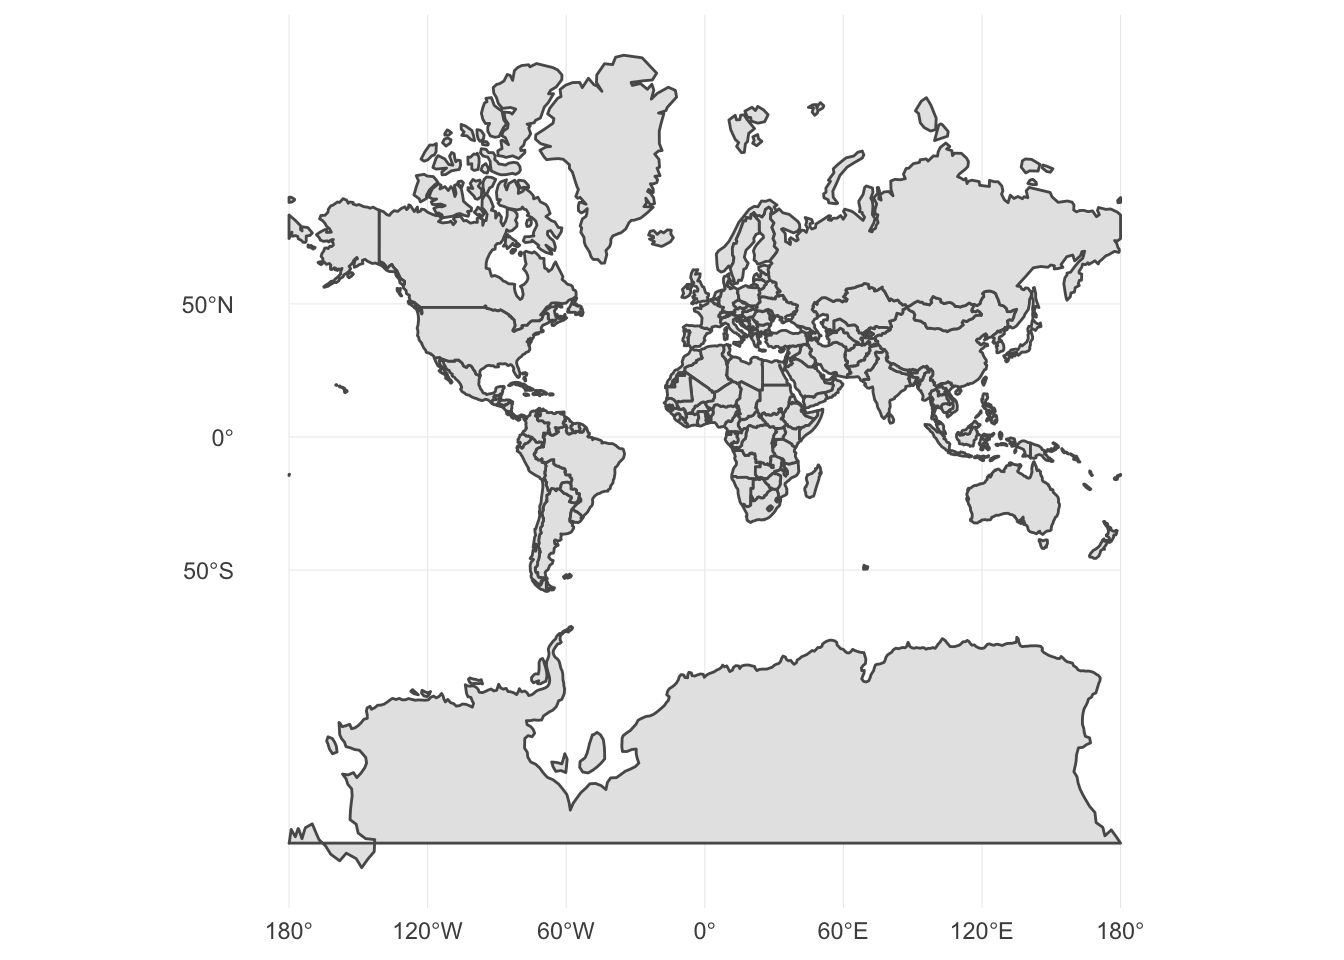
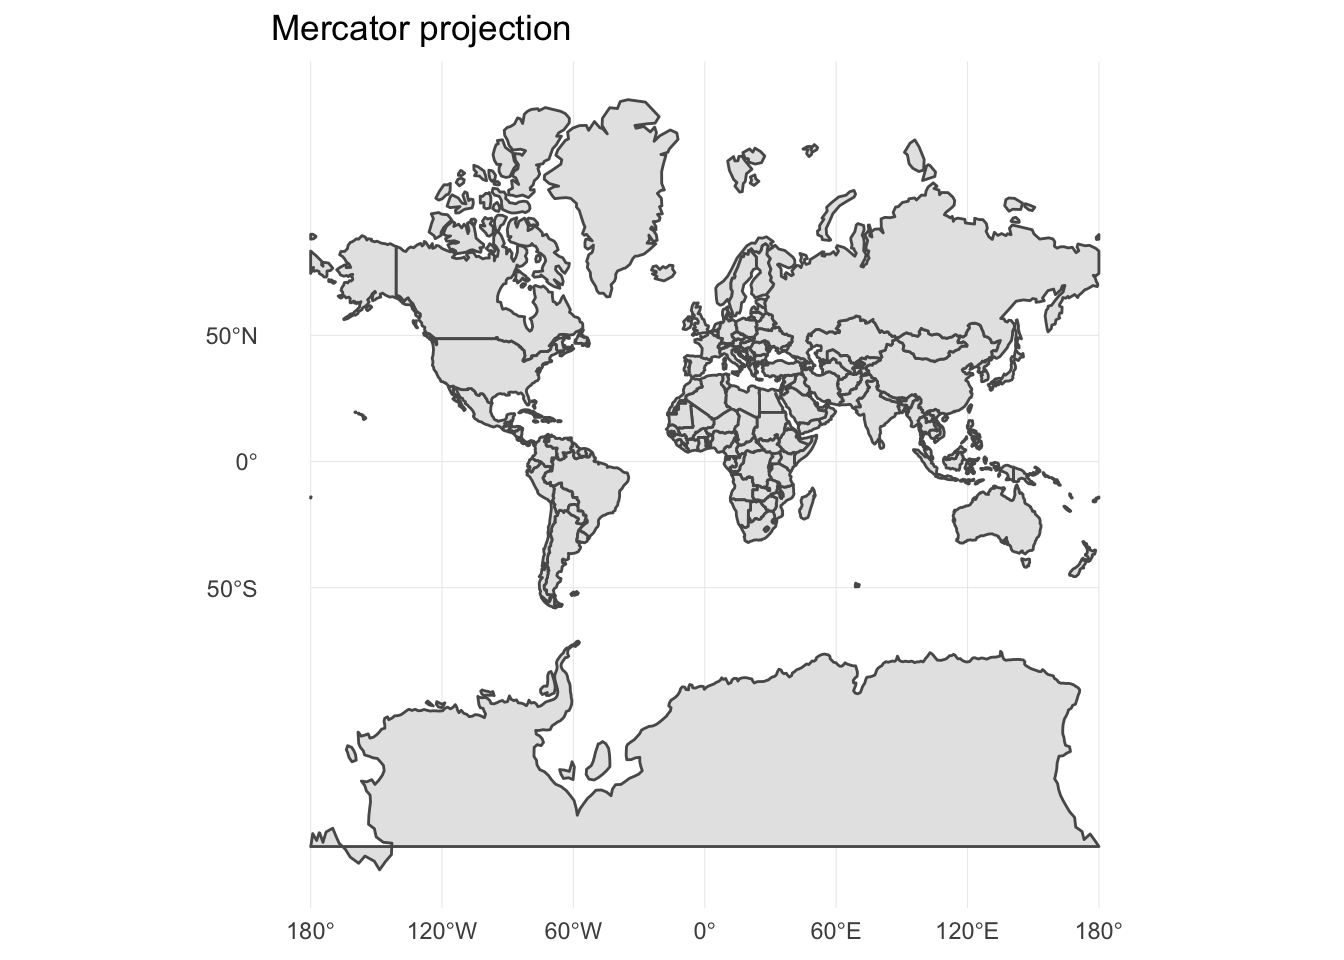
Define scale and projection

diff --git a/geoviz_intro.html b/geoviz_intro.html
@@ -333,6 +333,11 @@ div.tocify {
 <p>Geometric visualizations are used to depict spatial features, and with the incorporation of data reveal additional attributes and information. The main features of a map are defined by its <strong>scale</strong> (the proportion between distances and sizes on the map), its <strong>projection</strong> (how the three-dimensional Earth is represented on a two-dimensional surface), and its <strong>symbols</strong> (how data is depicted and visualized on the map).</p>
 <div id="scale" class="section level2">
 <h2>Scale</h2>
+<p><strong>Scale</strong> defines the proportion between distances and sizes on a map and their actual distances and sizes on Earth. Depending on the total geographic area for which you have data to visualize, you could create a <strong>small-scale map</strong> or a <strong>large-scale map</strong>. So for instance, a map of the United States would be considered large-scale:</p>
+<p><img src="geoviz_intro_files/figure-html/large-scale-1.png" width="672" /></p>
+<p>Whereas a map of Hyde Park would be small-scale:</p>
+<p><img src="geoviz_intro_files/figure-html/small-scale-1.png" width="672" /></p>
+<p>The smaller the scale, the easier it is to include additional details in the map.</p>
 </div>
 <div id="projection" class="section level2">
 <h2>Projection</h2>
@@ -344,31 +349,13 @@ div.tocify {
 <li>Distance</li>
 <li>Direction</li>
 </ol>
-<p>Projection methods typically maximize the accuracy of one or two of these properties, but no more. For instance, the <strong>mercator</strong> projection preserves shape and area and is very useful for sea navigation, but distorts the area of landmasses.</p>
-<pre><code>## Reading layer `ne_110m_admin_0_countries&#39; from data source `/Users/soltoffbc/Projects/Computing for Social Sciences/uc-cfss.github.io/data/nautral_earth/ne_110m_admin_0_countries/ne_110m_admin_0_countries.shp&#39; using driver `ESRI Shapefile&#39;
-## Simple feature collection with 177 features and 63 fields
-## geometry type:  MULTIPOLYGON
-## dimension:      XY
-## bbox:           xmin: -180 ymin: -90 xmax: 180 ymax: 83.6
-## epsg (SRID):    4326
-## proj4string:    +proj=longlat +datum=WGS84 +no_defs</code></pre>
+<p>Projection methods typically maximize the accuracy of one or two of these properties, but no more. For instance, <strong>conformal projections</strong> such as the <strong>mercator</strong> projection preserves shape and local angles and is very useful for sea navigation, but distorts the area of landmasses.</p>
 <p><img src="geoviz_intro_files/figure-html/mercator-1.png" width="672" /></p>
-<pre><code>## Reading layer `ne_110m_admin_0_countries&#39; from data source `/Users/soltoffbc/Projects/Computing for Social Sciences/uc-cfss.github.io/data/nautral_earth/ne_110m_admin_0_countries/ne_110m_admin_0_countries.shp&#39; using driver `ESRI Shapefile&#39;
-## Simple feature collection with 177 features and 63 fields
-## geometry type:  MULTIPOLYGON
-## dimension:      XY
-## bbox:           xmin: -180 ymin: -90 xmax: 180 ymax: 83.6
-## epsg (SRID):    4326
-## proj4string:    +proj=longlat +datum=WGS84 +no_defs</code></pre>
-<p><img src="geoviz_intro_files/figure-html/mercator-2.png" width="672" /></p>
-<pre><code>## Reading layer `ne_110m_admin_0_countries&#39; from data source `/Users/soltoffbc/Projects/Computing for Social Sciences/uc-cfss.github.io/data/nautral_earth/ne_110m_admin_0_countries/ne_110m_admin_0_countries.shp&#39; using driver `ESRI Shapefile&#39;
-## Simple feature collection with 177 features and 63 fields
-## geometry type:  MULTIPOLYGON
-## dimension:      XY
-## bbox:           xmin: -180 ymin: -90 xmax: 180 ymax: 83.6
-## epsg (SRID):    4326
-## proj4string:    +proj=longlat +datum=WGS84 +no_defs</code></pre>
-<p><img src="geoviz_intro_files/figure-html/mercator-3.png" width="672" /></p>
+<p>The farther away from the equator one travels, the more distorted the size of the region.</p>
+<p>Another family of projections called <strong>equal-area projections</strong> preserves area ratios, so that the relative size of areas on a map are proportional to their areas on the Earth.</p>
+<p><img src="geoviz_intro_files/figure-html/equal-area-1.png" width="672" /><img src="geoviz_intro_files/figure-html/equal-area-2.png" width="672" /></p>
+<p>The downside is that equal-area projections tend to distory shapes heavily, so shapes of areas can become distorted. No method can be both conformal and equal-area simultaneously, but some methods such as the <strong>Mollweide</strong> projection achieve a trade-off between these sets of characteristics.</p>
+<p><img src="geoviz_intro_files/figure-html/mollweide-1.png" width="672" /></p>
 </div>
 <div id="symbols" class="section level2">
 <h2>Symbols</h2>
@@ -390,87 +377,98 @@ div.tocify {
 ##  language (EN)                        
 ##  collate  en_US.UTF-8                 
 ##  tz       America/Chicago             
-##  date     2018-06-21                  
+##  date     2018-06-28                  
 ## 
-##  package    * version    date       source                         
-##  assertthat   0.2.0      2017-04-11 CRAN (R 3.5.0)                 
-##  backports    1.1.2      2017-12-13 CRAN (R 3.5.0)                 
-##  base       * 3.5.0      2018-04-24 local                          
-##  bindr        0.1.1      2018-03-13 CRAN (R 3.5.0)                 
-##  bindrcpp     0.2.2      2018-03-29 CRAN (R 3.5.0)                 
-##  broom        0.4.4      2018-03-29 CRAN (R 3.5.0)                 
-##  cellranger   1.1.0      2016-07-27 CRAN (R 3.5.0)                 
-##  class        7.3-14     2015-08-30 CRAN (R 3.5.0)                 
-##  classInt     0.2-3      2018-04-16 CRAN (R 3.5.0)                 
-##  cli          1.0.0      2017-11-05 CRAN (R 3.5.0)                 
-##  codetools    0.2-15     2016-10-05 CRAN (R 3.5.0)                 
-##  colorspace   1.3-2      2016-12-14 CRAN (R 3.5.0)                 
-##  compiler     3.5.0      2018-04-24 local                          
-##  crayon       1.3.4      2017-09-16 CRAN (R 3.5.0)                 
-##  datasets   * 3.5.0      2018-04-24 local                          
-##  DBI          1.0.0      2018-05-02 CRAN (R 3.5.0)                 
-##  devtools     1.13.5     2018-02-18 CRAN (R 3.5.0)                 
-##  digest       0.6.15     2018-01-28 CRAN (R 3.5.0)                 
-##  dplyr      * 0.7.5      2018-05-19 CRAN (R 3.5.0)                 
-##  e1071        1.6-8      2017-02-02 CRAN (R 3.5.0)                 
-##  evaluate     0.10.1     2017-06-24 CRAN (R 3.5.0)                 
-##  forcats    * 0.3.0      2018-02-19 CRAN (R 3.5.0)                 
-##  foreign      0.8-70     2017-11-28 CRAN (R 3.5.0)                 
-##  ggplot2    * 2.2.1.9000 2018-06-07 Github (hadley/ggplot2@4db5122)
-##  glue         1.2.0      2017-10-29 CRAN (R 3.5.0)                 
-##  graphics   * 3.5.0      2018-04-24 local                          
-##  grDevices  * 3.5.0      2018-04-24 local                          
-##  grid         3.5.0      2018-04-24 local                          
-##  gtable       0.2.0      2016-02-26 CRAN (R 3.5.0)                 
-##  haven        1.1.1      2018-01-18 CRAN (R 3.5.0)                 
-##  hms          0.4.2      2018-03-10 CRAN (R 3.5.0)                 
-##  htmltools    0.3.6      2017-04-28 CRAN (R 3.5.0)                 
-##  httr         1.3.1      2017-08-20 CRAN (R 3.5.0)                 
-##  jsonlite     1.5        2017-06-01 CRAN (R 3.5.0)                 
-##  knitr        1.20       2018-02-20 CRAN (R 3.5.0)                 
-##  lattice      0.20-35    2017-03-25 CRAN (R 3.5.0)                 
-##  lazyeval     0.2.1      2017-10-29 CRAN (R 3.5.0)                 
-##  lubridate    1.7.4      2018-04-11 CRAN (R 3.5.0)                 
-##  magrittr     1.5        2014-11-22 CRAN (R 3.5.0)                 
-##  memoise      1.1.0      2017-04-21 CRAN (R 3.5.0)                 
-##  methods    * 3.5.0      2018-04-24 local                          
-##  mnormt       1.5-5      2016-10-15 CRAN (R 3.5.0)                 
-##  modelr       0.1.2      2018-05-11 CRAN (R 3.5.0)                 
-##  munsell      0.4.3      2016-02-13 CRAN (R 3.5.0)                 
-##  nlme         3.1-137    2018-04-07 CRAN (R 3.5.0)                 
-##  parallel     3.5.0      2018-04-24 local                          
-##  pillar       1.2.3      2018-05-25 CRAN (R 3.5.0)                 
-##  pkgconfig    2.0.1      2017-03-21 CRAN (R 3.5.0)                 
-##  plyr         1.8.4      2016-06-08 CRAN (R 3.5.0)                 
-##  psych        1.8.4      2018-05-06 CRAN (R 3.5.0)                 
-##  purrr      * 0.2.5      2018-05-29 CRAN (R 3.5.0)                 
-##  R6           2.2.2      2017-06-17 CRAN (R 3.5.0)                 
-##  Rcpp         0.12.17    2018-05-18 CRAN (R 3.5.0)                 
-##  readr      * 1.1.1      2017-05-16 CRAN (R 3.5.0)                 
-##  readxl       1.1.0      2018-04-20 CRAN (R 3.5.0)                 
-##  reshape2     1.4.3      2017-12-11 CRAN (R 3.5.0)                 
-##  rlang        0.2.1      2018-05-30 CRAN (R 3.5.0)                 
-##  rmarkdown    1.9        2018-03-01 CRAN (R 3.5.0)                 
-##  rprojroot    1.3-2      2018-01-03 CRAN (R 3.5.0)                 
-##  rstudioapi   0.7        2017-09-07 CRAN (R 3.5.0)                 
-##  rvest        0.3.2      2016-06-17 CRAN (R 3.5.0)                 
-##  scales       0.5.0      2017-08-24 CRAN (R 3.5.0)                 
-##  sf         * 0.6-3      2018-05-17 CRAN (R 3.5.0)                 
-##  spData       0.2.8.3    2018-03-25 CRAN (R 3.5.0)                 
-##  stats      * 3.5.0      2018-04-24 local                          
-##  stringi      1.2.2      2018-05-02 CRAN (R 3.5.0)                 
-##  stringr    * 1.3.1      2018-05-10 CRAN (R 3.5.0)                 
-##  tibble     * 1.4.2      2018-01-22 CRAN (R 3.5.0)                 
-##  tidyr      * 0.8.1      2018-05-18 CRAN (R 3.5.0)                 
-##  tidyselect   0.2.4      2018-02-26 CRAN (R 3.5.0)                 
-##  tidyverse  * 1.2.1      2017-11-14 CRAN (R 3.5.0)                 
-##  tools        3.5.0      2018-04-24 local                          
-##  udunits2     0.13       2016-11-17 CRAN (R 3.5.0)                 
-##  units        0.5-1      2018-01-08 CRAN (R 3.5.0)                 
-##  utils      * 3.5.0      2018-04-24 local                          
-##  withr        2.1.2      2018-03-15 CRAN (R 3.5.0)                 
-##  xml2         1.2.0      2018-01-24 CRAN (R 3.5.0)                 
-##  yaml         2.1.19     2018-05-01 CRAN (R 3.5.0)</code></pre>
+##  package     * version    date       source                         
+##  assertthat    0.2.0      2017-04-11 CRAN (R 3.5.0)                 
+##  backports     1.1.2      2017-12-13 CRAN (R 3.5.0)                 
+##  base        * 3.5.0      2018-04-24 local                          
+##  bindr         0.1.1      2018-03-13 CRAN (R 3.5.0)                 
+##  bindrcpp      0.2.2      2018-03-29 CRAN (R 3.5.0)                 
+##  broom         0.4.4      2018-03-29 CRAN (R 3.5.0)                 
+##  cellranger    1.1.0      2016-07-27 CRAN (R 3.5.0)                 
+##  class         7.3-14     2015-08-30 CRAN (R 3.5.0)                 
+##  classInt      0.2-3      2018-04-16 CRAN (R 3.5.0)                 
+##  cli           1.0.0      2017-11-05 CRAN (R 3.5.0)                 
+##  codetools     0.2-15     2016-10-05 CRAN (R 3.5.0)                 
+##  colorspace    1.3-2      2016-12-14 CRAN (R 3.5.0)                 
+##  compiler      3.5.0      2018-04-24 local                          
+##  crayon        1.3.4      2017-09-16 CRAN (R 3.5.0)                 
+##  datasets    * 3.5.0      2018-04-24 local                          
+##  DBI           1.0.0      2018-05-02 CRAN (R 3.5.0)                 
+##  devtools      1.13.5     2018-02-18 CRAN (R 3.5.0)                 
+##  digest        0.6.15     2018-01-28 CRAN (R 3.5.0)                 
+##  dplyr       * 0.7.5      2018-05-19 CRAN (R 3.5.0)                 
+##  e1071         1.6-8      2017-02-02 CRAN (R 3.5.0)                 
+##  evaluate      0.10.1     2017-06-24 CRAN (R 3.5.0)                 
+##  forcats     * 0.3.0      2018-02-19 CRAN (R 3.5.0)                 
+##  foreign       0.8-70     2017-11-28 CRAN (R 3.5.0)                 
+##  geosphere     1.5-7      2017-11-05 CRAN (R 3.5.0)                 
+##  ggmap       * 2.6.1      2016-01-23 CRAN (R 3.5.0)                 
+##  ggplot2     * 2.2.1.9000 2018-06-07 Github (hadley/ggplot2@4db5122)
+##  glue          1.2.0      2017-10-29 CRAN (R 3.5.0)                 
+##  graphics    * 3.5.0      2018-04-24 local                          
+##  grDevices   * 3.5.0      2018-04-24 local                          
+##  grid          3.5.0      2018-04-24 local                          
+##  gtable        0.2.0      2016-02-26 CRAN (R 3.5.0)                 
+##  haven         1.1.1      2018-01-18 CRAN (R 3.5.0)                 
+##  hms           0.4.2      2018-03-10 CRAN (R 3.5.0)                 
+##  htmltools     0.3.6      2017-04-28 CRAN (R 3.5.0)                 
+##  httr          1.3.1      2017-08-20 CRAN (R 3.5.0)                 
+##  jpeg          0.1-8      2014-01-23 CRAN (R 3.5.0)                 
+##  jsonlite      1.5        2017-06-01 CRAN (R 3.5.0)                 
+##  knitr         1.20       2018-02-20 CRAN (R 3.5.0)                 
+##  labeling      0.3        2014-08-23 CRAN (R 3.5.0)                 
+##  lattice       0.20-35    2017-03-25 CRAN (R 3.5.0)                 
+##  lazyeval      0.2.1      2017-10-29 CRAN (R 3.5.0)                 
+##  lubridate     1.7.4      2018-04-11 CRAN (R 3.5.0)                 
+##  magrittr      1.5        2014-11-22 CRAN (R 3.5.0)                 
+##  mapproj       1.2.6      2018-03-29 CRAN (R 3.5.0)                 
+##  maps          3.3.0      2018-04-03 CRAN (R 3.5.0)                 
+##  memoise       1.1.0      2017-04-21 CRAN (R 3.5.0)                 
+##  methods     * 3.5.0      2018-04-24 local                          
+##  mnormt        1.5-5      2016-10-15 CRAN (R 3.5.0)                 
+##  modelr        0.1.2      2018-05-11 CRAN (R 3.5.0)                 
+##  munsell       0.4.3      2016-02-13 CRAN (R 3.5.0)                 
+##  nlme          3.1-137    2018-04-07 CRAN (R 3.5.0)                 
+##  parallel      3.5.0      2018-04-24 local                          
+##  pillar        1.2.3      2018-05-25 CRAN (R 3.5.0)                 
+##  pkgconfig     2.0.1      2017-03-21 CRAN (R 3.5.0)                 
+##  plyr          1.8.4      2016-06-08 CRAN (R 3.5.0)                 
+##  png           0.1-7      2013-12-03 CRAN (R 3.5.0)                 
+##  proto         1.0.0      2016-10-29 CRAN (R 3.5.0)                 
+##  psych         1.8.4      2018-05-06 CRAN (R 3.5.0)                 
+##  purrr       * 0.2.5      2018-05-29 CRAN (R 3.5.0)                 
+##  R6            2.2.2      2017-06-17 CRAN (R 3.5.0)                 
+##  Rcpp          0.12.17    2018-05-18 CRAN (R 3.5.0)                 
+##  readr       * 1.1.1      2017-05-16 CRAN (R 3.5.0)                 
+##  readxl        1.1.0      2018-04-20 CRAN (R 3.5.0)                 
+##  reshape2      1.4.3      2017-12-11 CRAN (R 3.5.0)                 
+##  RgoogleMaps   1.4.1      2016-09-18 CRAN (R 3.5.0)                 
+##  rjson         0.2.19     2018-05-18 CRAN (R 3.5.0)                 
+##  rlang         0.2.1      2018-05-30 CRAN (R 3.5.0)                 
+##  rmarkdown     1.9        2018-03-01 CRAN (R 3.5.0)                 
+##  rprojroot     1.3-2      2018-01-03 CRAN (R 3.5.0)                 
+##  rstudioapi    0.7        2017-09-07 CRAN (R 3.5.0)                 
+##  rvest         0.3.2      2016-06-17 CRAN (R 3.5.0)                 
+##  scales        0.5.0      2017-08-24 CRAN (R 3.5.0)                 
+##  sf          * 0.6-3      2018-05-17 CRAN (R 3.5.0)                 
+##  sp            1.3-1      2018-06-05 CRAN (R 3.5.0)                 
+##  spData        0.2.8.3    2018-03-25 CRAN (R 3.5.0)                 
+##  stats       * 3.5.0      2018-04-24 local                          
+##  stringi       1.2.2      2018-05-02 CRAN (R 3.5.0)                 
+##  stringr     * 1.3.1      2018-05-10 CRAN (R 3.5.0)                 
+##  tibble      * 1.4.2      2018-01-22 CRAN (R 3.5.0)                 
+##  tidyr       * 0.8.1      2018-05-18 CRAN (R 3.5.0)                 
+##  tidyselect    0.2.4      2018-02-26 CRAN (R 3.5.0)                 
+##  tidyverse   * 1.2.1      2017-11-14 CRAN (R 3.5.0)                 
+##  tools         3.5.0      2018-04-24 local                          
+##  udunits2      0.13       2016-11-17 CRAN (R 3.5.0)                 
+##  units         0.5-1      2018-01-08 CRAN (R 3.5.0)                 
+##  utils       * 3.5.0      2018-04-24 local                          
+##  withr         2.1.2      2018-03-15 CRAN (R 3.5.0)                 
+##  xml2          1.2.0      2018-01-24 CRAN (R 3.5.0)                 
+##  yaml          2.1.19     2018-05-01 CRAN (R 3.5.0)</code></pre>
 </div>
 <div class="footnotes">
 <hr />
